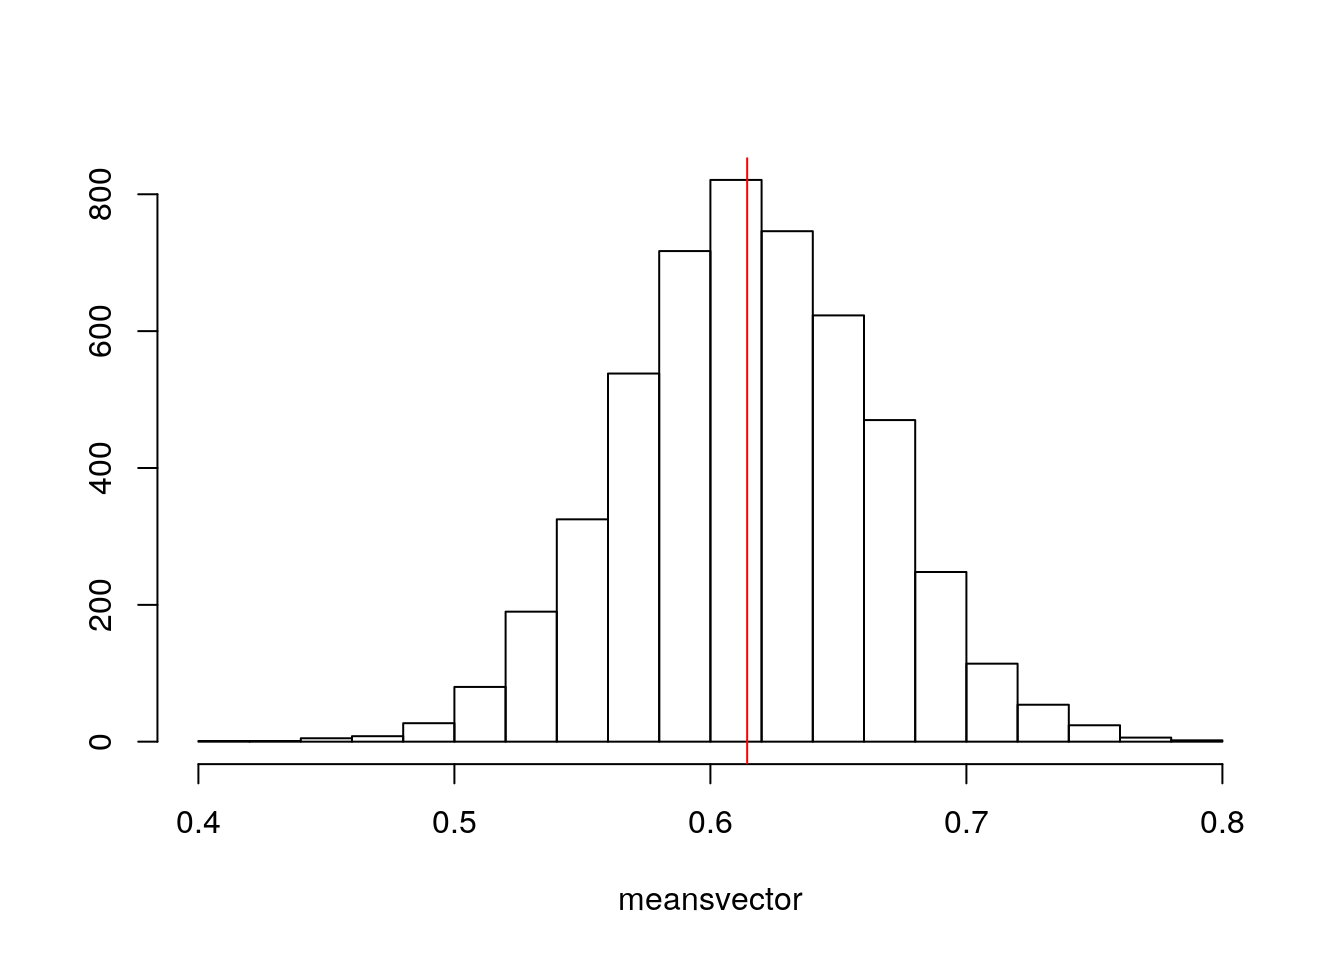
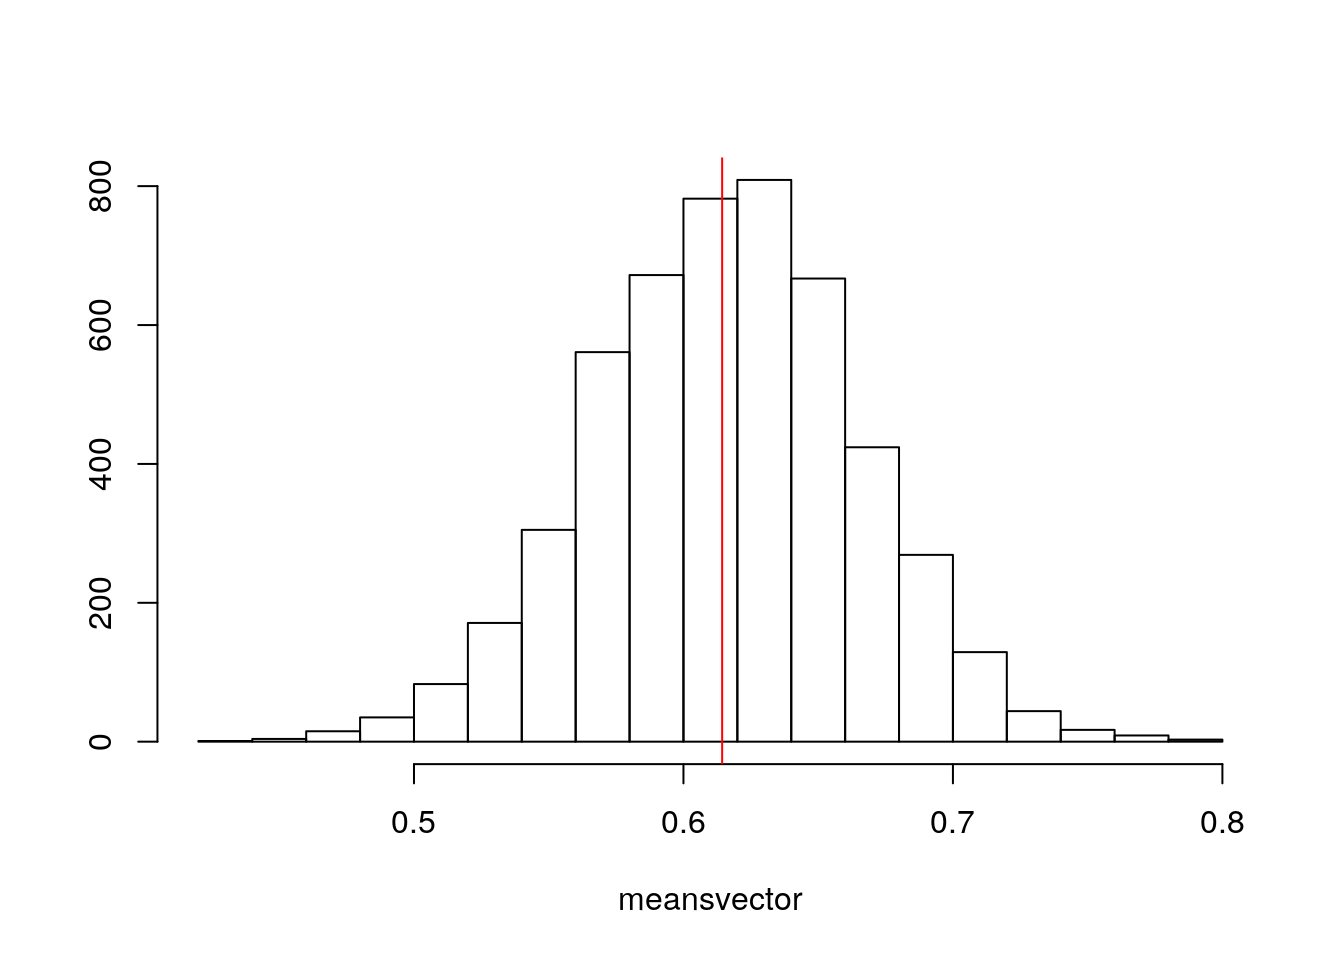
some message

diff --git a/project/project2/index.html b/project/project2/index.html
@@ -189,7 +189,7 @@ for (i in 1:5000) {
         &quot;White&quot;, ]$checks)
 }
 mean(meansvector &lt; -0.6143611 | meansvector &gt; 0.6143611)</code></pre>
-<pre><code>## [1] 0.5008</code></pre>
+<pre><code>## [1] 0.5214</code></pre>
 <pre class="r"><code>t.test(data = Arrests, checks ~ colour)</code></pre>
 <pre><code>## 
 ##  Welch Two Sample t-test
@@ -266,8 +266,8 @@ samp_distn &lt;- replicate(5000, {
 })
 ## Estimated/boostrap SEs
 samp_distn %&gt;% t %&gt;% as.data.frame %&gt;% summarize_all(sd)</code></pre>
-<pre><code>##   (Intercept)        age   sexMale age:sexMale
-## 1   0.1875569 0.00786095 0.2003232 0.008301057</code></pre>
+<pre><code>##   (Intercept)         age   sexMale age:sexMale
+## 1   0.1897843 0.007905871 0.2016514 0.008343874</code></pre>
 <pre class="r"><code># Resampling residuals
 resid_resamp &lt;- replicate(5000, {
     new_resids &lt;- sample(resids, replace = TRUE)
@@ -278,7 +278,7 @@ resid_resamp &lt;- replicate(5000, {
 ## Estimated SEs
 resid_resamp %&gt;% t %&gt;% as.data.frame %&gt;% summarize_all(sd)</code></pre>
 <pre><code>##   (Intercept)         age   sexMale age:sexMale
-## 1   0.2113296 0.008464893 0.2221783 0.008889907</code></pre>
+## 1   0.2087553 0.008345456 0.2179039 0.008706193</code></pre>
 <pre class="r"><code>## Normal-theory SEs
 coeftest(fit_project)</code></pre>
 <pre><code>## 
@@ -306,7 +306,7 @@ coeftest(fit_project, vcov = vcovHC(fit_project))</code></pre>
 <pre class="r"><code>## Bootstrapped SEs (resampling residuals)
 resid_resamp %&gt;% t %&gt;% as.data.frame %&gt;% summarize_all(sd)</code></pre>
 <pre><code>##   (Intercept)         age   sexMale age:sexMale
-## 1   0.2113296 0.008464893 0.2221783 0.008889907</code></pre>
+## 1   0.2087553 0.008345456 0.2179039 0.008706193</code></pre>
 <p><em>The standard errors varied slightly, but the p-values that were significant before remained significance, and the p-values that were not significant still did not show significance. </em></p>
 </div>
 <div id="logistic-regression-model-predicting-binary-variable" class="section level2">
@@ -518,7 +518,7 @@ diags %&gt;% summarize_all(mean)</code></pre>
 ## [65] R6_2.4.1          lubridate_1.7.9   utf8_1.1.4        shape_1.4.5      
 ## [69] stringi_1.5.3     Rcpp_1.0.5        vctrs_0.3.2       dbplyr_1.4.4     
 ## [73] tidyselect_1.1.0  xfun_0.16</code></pre>
-<pre><code>## [1] &quot;2020-12-10 07:42:07 CST&quot;</code></pre>
+<pre><code>## [1] &quot;2020-12-11 00:19:56 CST&quot;</code></pre>
 <pre><code>##                                       sysname 
 ##                                       &quot;Linux&quot; 
 ##                                       release 

diff --git a/post/2020/12/03/choas-in-quarantine/index.html b/post/2020/12/03/choas-in-quarantine/index.html
@@ -73,7 +73,12 @@
 
 
 <p><em>Here's a fun blog post about how COVID-19 basically ruined everything, but somehow we still got something out of it by learning how to code in python (sort of). In the simplest of terms, &quot;COVID sucks&quot;. Online classes are hard enough as it is without a national pandemic yet somehow, we mastered up enough strength to finish out the semester, and for some of us, our college career. We can use a reticulate not only to tie together the fact that COVID does indeed suck, but also to show how R and Python communicate to share information.</em></p>
-<p><img src="../../../../../post/2020-12-03-choas-in-quarantine_files/IMG_6169.jpg" alt="If a puppy can wear a mask the right way, so can you!" /> ## Reticulate</p>
+<div class="figure">
+<img src="../../../../../post/2020-12-03-choas-in-quarantine_files/IMG_6169.jpg" alt="If a puppy can wear a mask the right way, so can you!" />
+<p class="caption">If a puppy can wear a mask the right way, so can you!</p>
+</div>
+<div id="reticulate" class="section level2">
+<h2>Reticulate</h2>
 <p><em>First, we add in the chunck of code from R.</em></p>
 <pre class="r"><code>library(reticulate)
 COVID &lt;- &quot;Please give me an A;&quot;</code></pre>
@@ -84,6 +89,7 @@ print(r.COVID, sucks)</code></pre>
 <p><em>The Python defined object can also be accessed in R using py$.</em></p>
 <pre class="r"><code>cat(c(COVID,py$sucks))</code></pre>
 <pre><code>## Please give me an A; this is my last assignment before I graduate.</code></pre>
+</div>
 <div id="but-really-though..." class="section level2">
 <h2>But Really Though...</h2>
 <p><em>This time has been difficult for everyone, and every person has experienced loss in some way during this season. Thank you for</em></p>

diff --git a/project/project1/index.html b/project/project1/index.html
@@ -376,7 +376,7 @@ MLS_fulldata %&gt;% ggplot(aes(x = avg_base_salary, y = club,
 ## [45] crayon_1.3.4     pkgconfig_2.0.3  ellipsis_0.3.1   xml2_1.3.2      
 ## [49] reprex_0.3.0     lubridate_1.7.9  assertthat_0.2.1 rmarkdown_2.3   
 ## [53] httr_1.4.2       rstudioapi_0.11  R6_2.4.1         compiler_3.6.1</code></pre>
-<pre><code>## [1] &quot;2020-12-10 07:40:42 CST&quot;</code></pre>
+<pre><code>## [1] &quot;2020-12-11 00:17:38 CST&quot;</code></pre>
 <pre><code>##                                       sysname 
 ##                                       &quot;Linux&quot; 
 ##                                       release 
